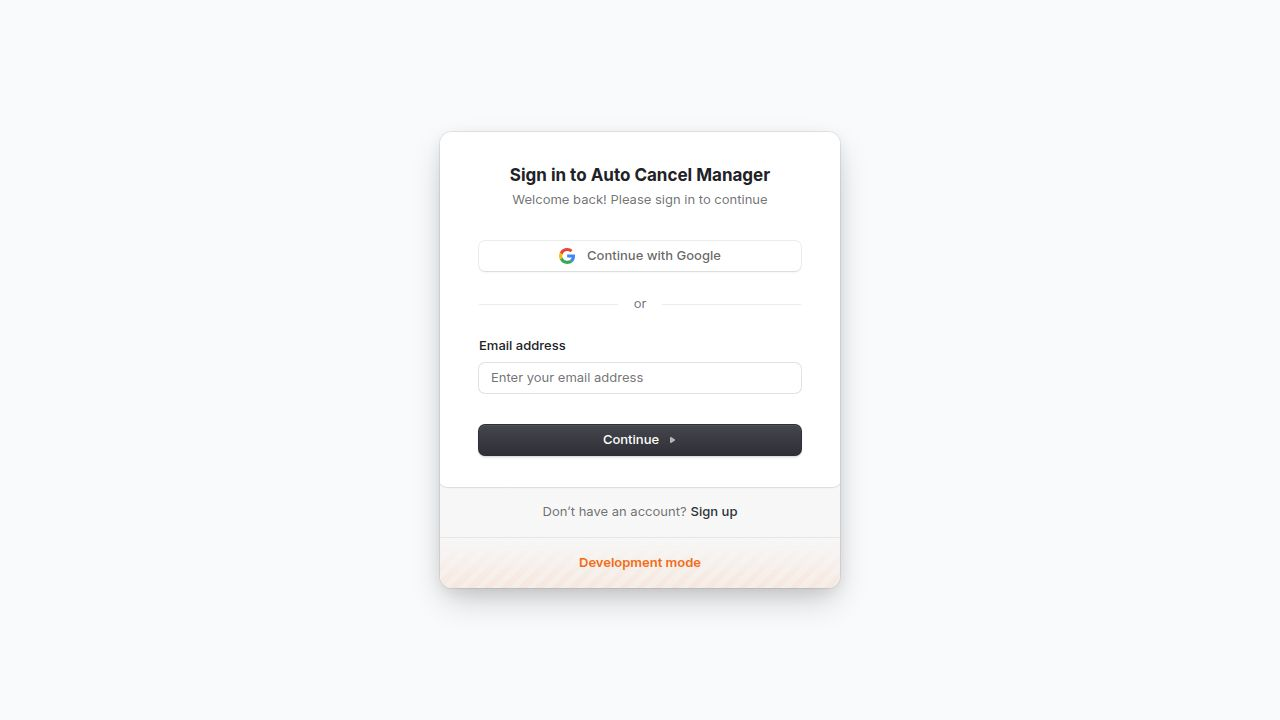
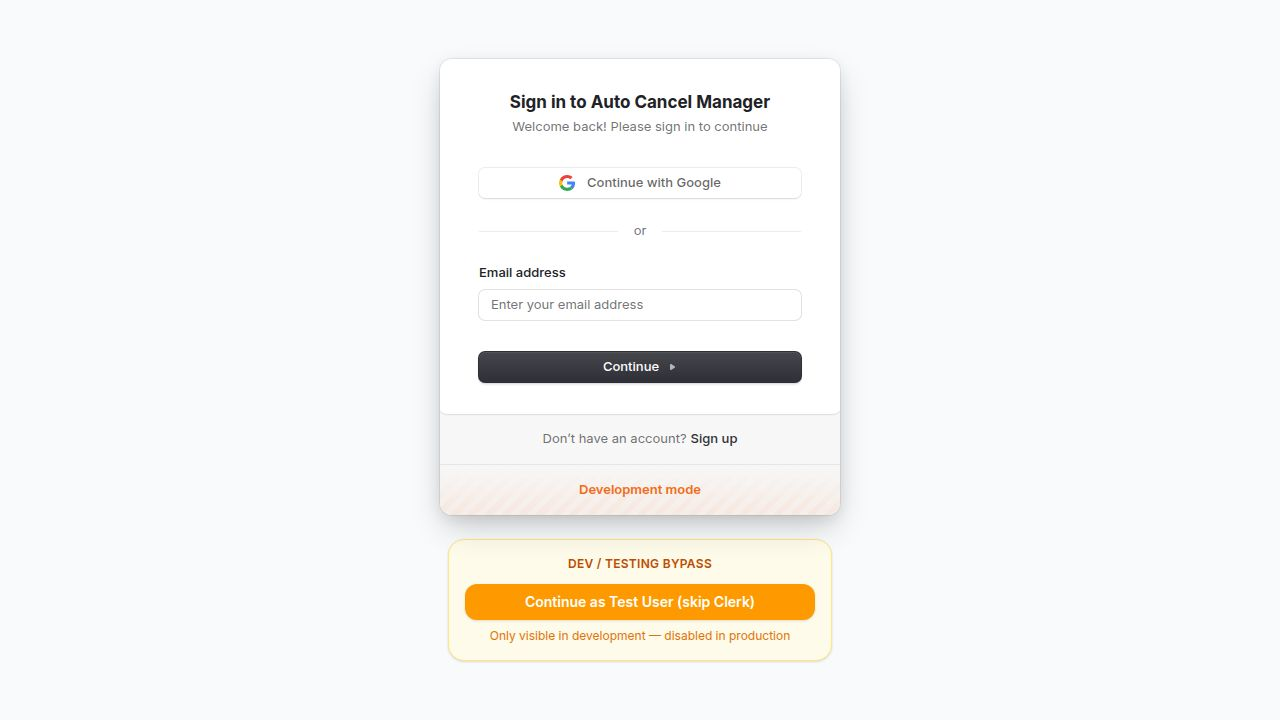
Update sign-in and dashboard to work with bypass login
Modify App.tsx and auth.tsx to correctly handle user authentication and routing for both Clerk and bypass sessions.

Replit-Commit-Author: Agent
Replit-Commit-Session-Id: aefce58a-705f-497c-81ba-d88444727659
Replit-Commit-Checkpoint-Type: full_checkpoint
Replit-Commit-Event-Id: c1aacb99-26b7-4fcc-8b34-bee942debf53
Replit-Commit-Screenshot-Url: https://storage.googleapis.com/screenshot-production-us-central1/c86cda4f-e66b-4212-9407-08dfdf4fceda/aefce58a-705f-497c-81ba-d88444727659/7gN8KUr
Replit-Helium-Checkpoint-Created: true

diff --git a/artifacts/autopay-cancel/src/App.tsx b/artifacts/autopay-cancel/src/App.tsx
@@ -1,12 +1,13 @@
 import { useEffect, useRef } from "react";
 import { Switch, Route, Router as WouterRouter, useLocation, Redirect } from "wouter";
 import { QueryClient, QueryClientProvider, useQueryClient } from "@tanstack/react-query";
-import { ClerkProvider, Show, useClerk, useAuth as useClerkAuth } from "@clerk/react";
+import { ClerkProvider, useClerk, useAuth as useClerkAuth } from "@clerk/react";
 import { Toaster } from "@/components/ui/toaster";
 import { Toaster as SonnerToaster } from "@/components/ui/sonner";
 import { TooltipProvider } from "@/components/ui/tooltip";
 import { setApiTokenProvider } from "@workspace/api-client-react";
 
+import { useAuth } from "@/lib/auth";
 import SignInPage from "@/pages/sign-in";
 import SignUpPage from "@/pages/sign-up";
 import Onboarding from "@/pages/onboarding";
@@ -71,6 +72,12 @@ function ClerkQueryClientCacheInvalidator() {
   return null;
 }
 
+function RootRedirect() {
+  const { user, isLoading } = useAuth();
+  if (isLoading) return null;
+  return <Redirect to={user ? "/dashboard" : "/sign-in"} />;
+}
+
 function Router() {
   return (
     <Switch>
@@ -78,14 +85,7 @@ function Router() {
       <Route path="/sign-up/*?" component={SignUpPage} />
       <Route path="/login"><Redirect to="/sign-in" /></Route>
       <Route path="/register"><Redirect to="/sign-up" /></Route>
-      <Route path="/">
-        <Show when="signed-in">
-          <Redirect to="/dashboard" />
-        </Show>
-        <Show when="signed-out">
-          <Redirect to="/sign-in" />
-        </Show>
-      </Route>
+      <Route path="/" component={RootRedirect} />
       <Route path="/onboarding" component={Onboarding} />
       <Route path="/dashboard" component={Dashboard} />
       <Route path="/subscriptions" component={Subscriptions} />

diff --git a/artifacts/autopay-cancel/src/lib/auth.tsx b/artifacts/autopay-cancel/src/lib/auth.tsx
@@ -2,18 +2,21 @@ import { useUser, useClerk } from "@clerk/react";
 import { useGetMe, getGetMeQueryKey } from "@workspace/api-client-react";
 
 export function useAuth() {
-  const { isSignedIn, isLoaded } = useUser();
+  const { isLoaded, isSignedIn } = useUser();
   const { signOut } = useClerk();
 
+  // Always call /api/auth/me once Clerk finishes loading.
+  // The backend accepts EITHER a Clerk Bearer token OR the dev_session cookie,
+  // so this works for both real Clerk users and the bypass login.
   const { data: profile, isLoading: profileLoading } = useGetMe({
     query: {
       queryKey: getGetMeQueryKey(),
-      enabled: isSignedIn === true,
+      enabled: isLoaded,
       retry: false,
     },
   });
 
-  const user = isSignedIn && profile
+  const user = profile
     ? {
         id: profile.id ?? 0,
         email: profile.email ?? "",
@@ -24,9 +27,23 @@ export function useAuth() {
       }
     : null;
 
+  const logout = async () => {
+    // Clear Clerk session if there is one
+    if (isSignedIn) {
+      await signOut();
+    }
+    // Always clear the backend cookie session
+    try {
+      await fetch("/api/auth/logout", { method: "POST", credentials: "include" });
+    } catch {
+      // ignore
+    }
+    window.location.href = "/sign-in";
+  };
+
   return {
     user,
-    isLoading: !isLoaded || (isSignedIn === true && profileLoading),
-    logout: async () => { await signOut(); },
+    isLoading: !isLoaded || profileLoading,
+    logout,
   };
 }
